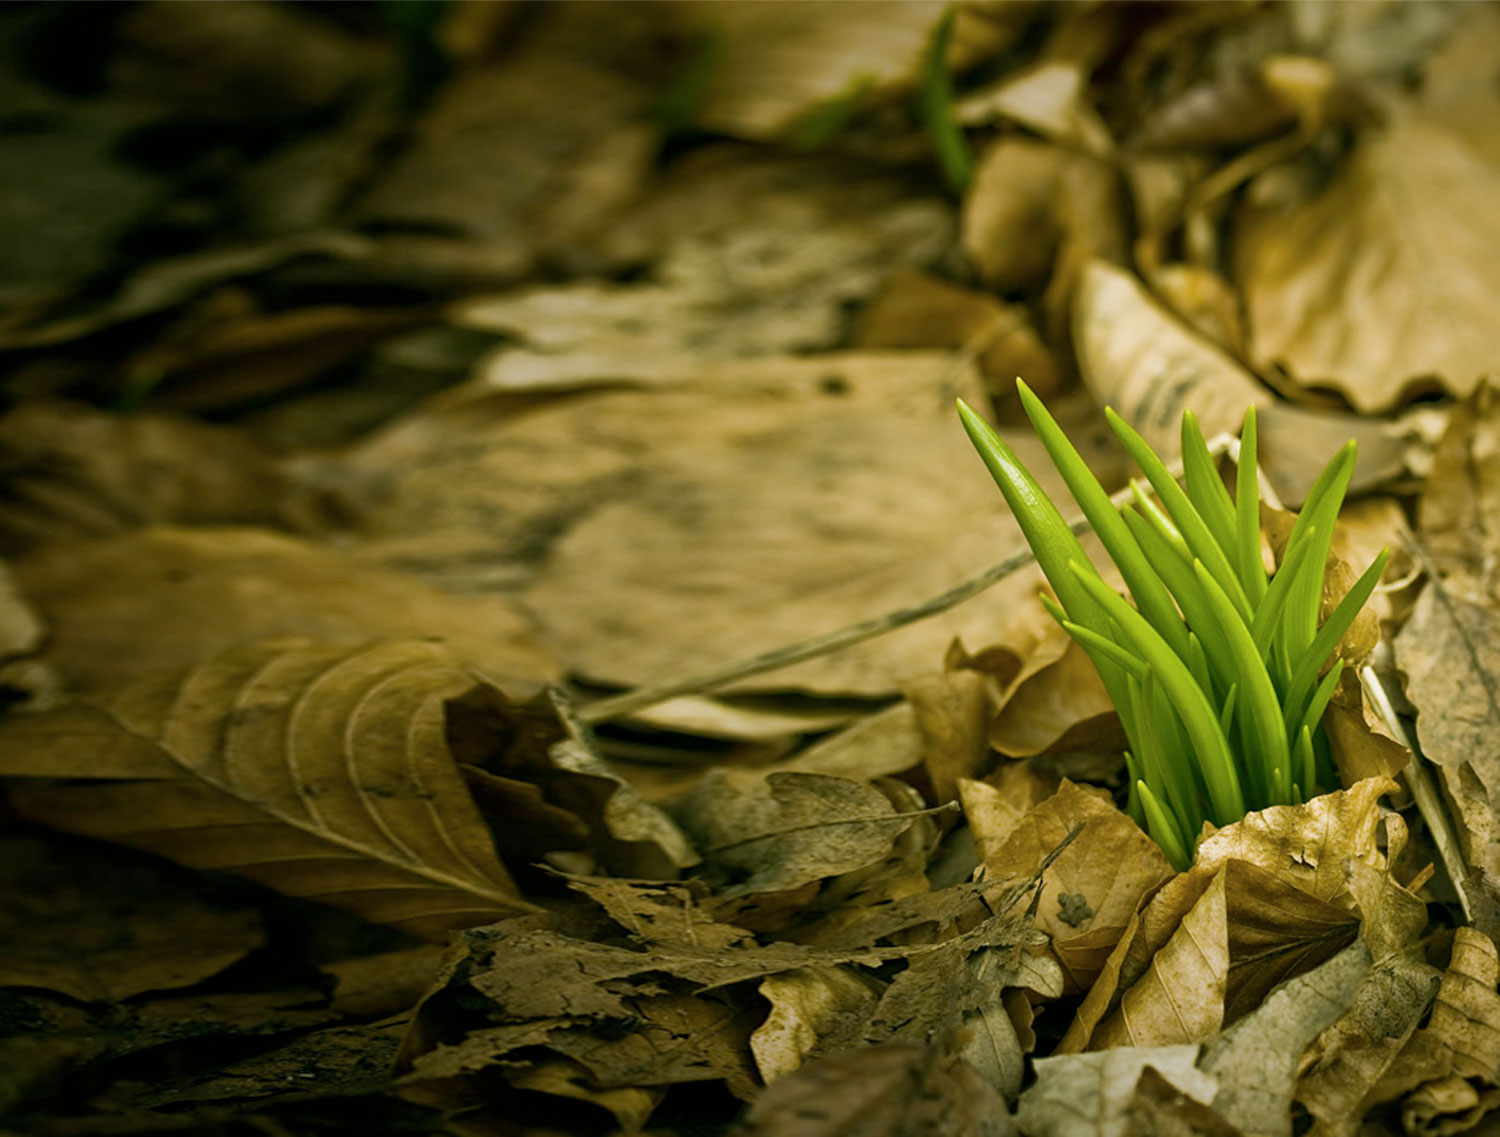
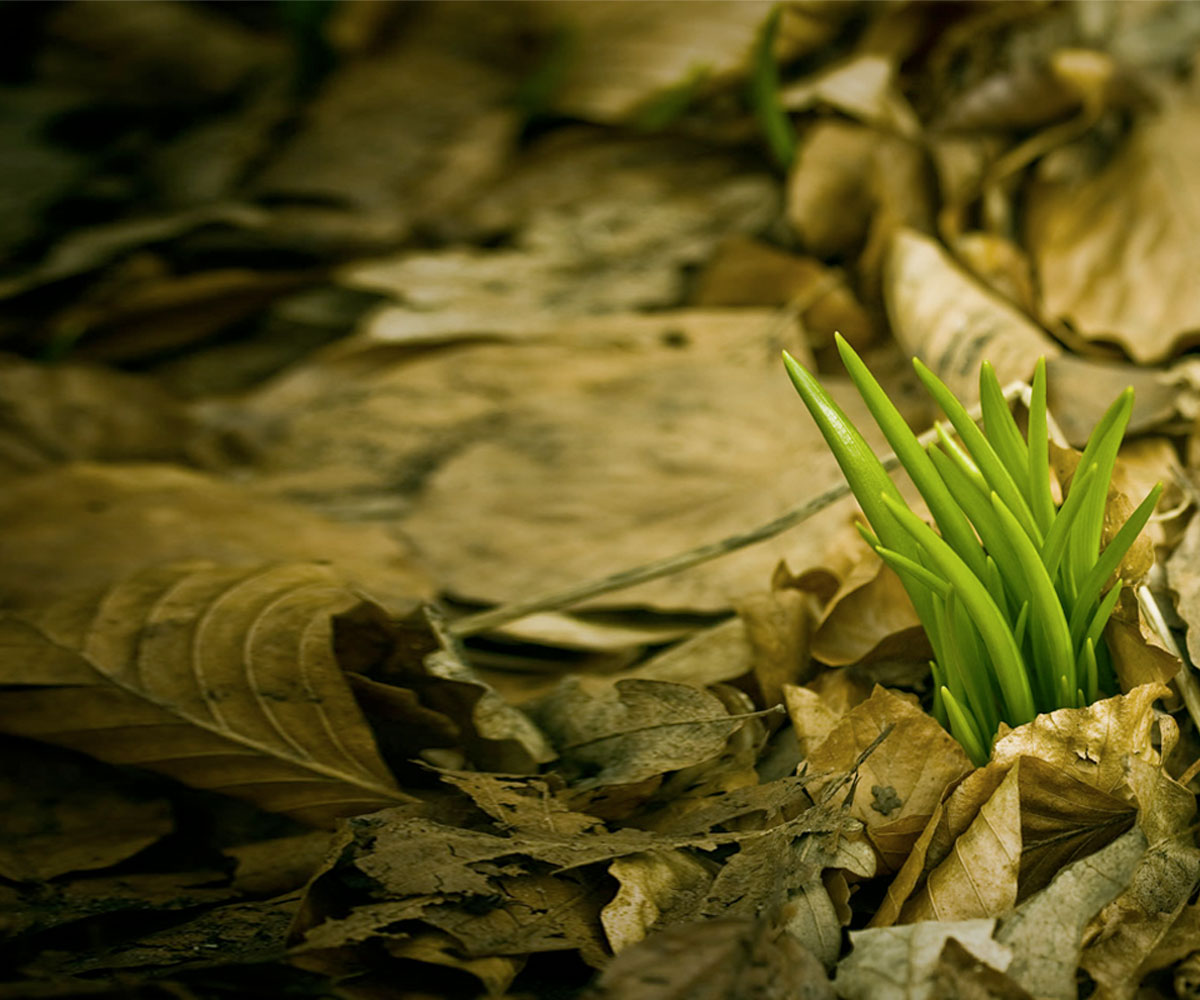
craft - change approach for bg image for auto size

diff --git a/css/style.css b/css/style.css
@@ -1437,7 +1437,7 @@ a.close,
   height:               32px;
   position:             absolute;
   top:                  -1px;
-  left:                 767px;
+  left:                 760px;
   background:           transparent url(../img/icons_controls.png) 0 0 no-repeat;
   overflow:             hidden;
 }
@@ -1445,7 +1445,6 @@ a.close:hover,
 a.close:active {
   background-position:  0 -32px;
 }
-
 
 #presenterNav {
 /*  text-align:           center;*/
@@ -3846,12 +3845,20 @@ textarea.error {
 
 /* + Craft */
 
-#craft {
-  /* height:               810px;  set dynamic ht w/js */
-  background:           transparent url(../img/bg_craft.jpg) 0 0 no-repeat;
+.craft {
+  position:             relative;
+  overflow:             hidden;
+  background:           #222;;
 }
 
-#craft .inner {
+.craft img.bg {
+  width:                100%;
+  position:             absolute;
+  top:                  0;
+  left:                 0;
+}
+
+.craft .inner {
   width:                960px;
   height:               610px;
   margin:               0 auto;
@@ -3859,15 +3866,42 @@ textarea.error {
   position:             relative;
 }
 
-#craft section {
+.craft section {
   width:                525px;
   float:                left;
 }
+#craftDetail section {
+  width:                638px;
+}
 
-#craft section h2 {
+#craftDetail section .hd {
+  margin-bottom:        16px;
+  padding-bottom:       12px;
+  border-bottom:        1px solid #fff;
+  position:             relative;
+}
+
+.craft section h2 {
   font:                 600 219%/100% "proxima-nova-1","proxima-nova-2",Arial,sans-serif;
   color:                #fff;
   margin-bottom:        20px;
+}
+
+#craftDetail section h2 {
+  margin-bottom:        5px;
+}
+
+#craftDetail section h3 {
+  font:                 400 219%/100% "proxima-nova-1","proxima-nova-2",Arial,sans-serif;
+  color:                #fff;
+}
+
+#craftDetail section h4 {
+  font:                 600 189%/100% "proxima-nova-1","proxima-nova-2",Arial,sans-serif;
+  color:                #8bcfee;
+  position:             absolute;
+  top:                  2px;
+  right:                0;
 }
 
 #craft section p {
@@ -3875,6 +3909,11 @@ textarea.error {
   line-height:          150%;
   color:                #acd5fc;
   padding-right:        35px;
+}
+#craftDetail section p {
+  font-size:            110%;
+  line-height:          150%;
+  color:                #fff;
 }
 
 #craft aside {
@@ -3946,64 +3985,10 @@ textarea.error {
   position:             absolute;
   bottom:               18px;
   right:                -2px;
+  display:              none;
 }
 
 /* / Craft */
-
-/* + Craft Detail */
-
-#craftDetail {
-  height:810px; /* ** to do: make dynamic based on viewport */
-  background:           transparent url(../img/bg_craft_detail.jpg) 0 0 no-repeat;
-}
-
-#craftDetail .inner {
-  width:                960px;
-  height:               610px;
-  margin:               0 auto;
-  padding-top:          42px;
-  position:             relative;
-}
-
-#craftDetail section {
-  width:                638px;
-  float:                left;
-}
-
-#craftDetail section .hd {
-  margin-bottom:        16px;
-  padding-bottom:       12px;
-  border-bottom:        1px solid #fff;
-  position:             relative;
-}
-
-#craftDetail section h2 {
-  font:                 600 219%/100% "proxima-nova-1","proxima-nova-2",Arial,sans-serif;
-  color:                #fff;
-  margin-bottom:        5px;
-}
-
-#craftDetail section h3 {
-  font:                 400 219%/100% "proxima-nova-1","proxima-nova-2",Arial,sans-serif;
-  color:                #fff;
-}
-
-#craftDetail section h4 {
-  font:                 600 189%/100% "proxima-nova-1","proxima-nova-2",Arial,sans-serif;
-  color:                #8bcfee;
-  position:             absolute;
-  top:                  2px;
-  right:                0;
-}
-
-#craftDetail section p {
-  font-size:            110%;
-  line-height:          150%;
-  color:                #fff;
-}
-
-
-/* / Craft Detail */
 
 /* + Share */
 

diff --git a/js/script.js b/js/script.js
@@ -1718,17 +1718,20 @@ $(document).ready(function(){
   
   if ($('#craft').length) {
     
-    $('aside .group:first-child').addClass('visible');  // set default condition
-    $('aside .btn').click(function() {
-      vis = $(this).parent().children('.group.visible');
-      vis.fadeTo(1000, 0).removeClass('visible');
-      if (vis.next('.group').length) {
-        next = vis.next('.group');
-      } else {
-        next = $('aside .group:first-child');
-      }
-      next.fadeTo(500, 1.0).addClass('visible');
-    });
+    if ($('aside .group').length > 1) {
+      $('aside .btn').show();
+      $('aside .group:first-child').addClass('visible');  // set default condition
+      $('aside .btn').click(function() {
+        vis = $(this).parent().children('.group.visible');
+        vis.fadeTo(1000, 0).removeClass('visible');
+        if (vis.next('.group').length) {
+          next = vis.next('.group');
+        } else {
+          next = $('aside .group:first-child');
+        }
+        next.fadeTo(500, 1.0).addClass('visible');
+      });
+    }
 
   }
 
@@ -1738,6 +1741,7 @@ $(document).ready(function(){
 
   if ($('footer').css('position') == 'fixed') {
 
+    // find object to size
     obj = $('#content').children('div:first-child');
     
     // set initial height
